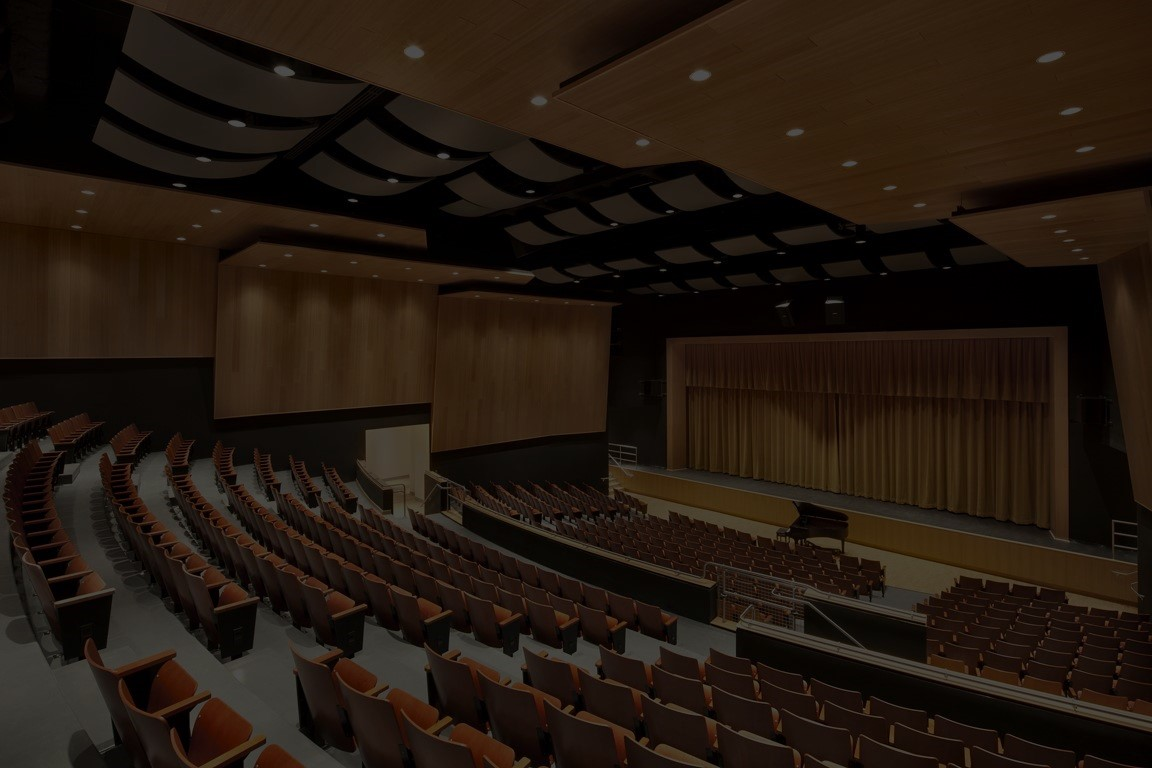
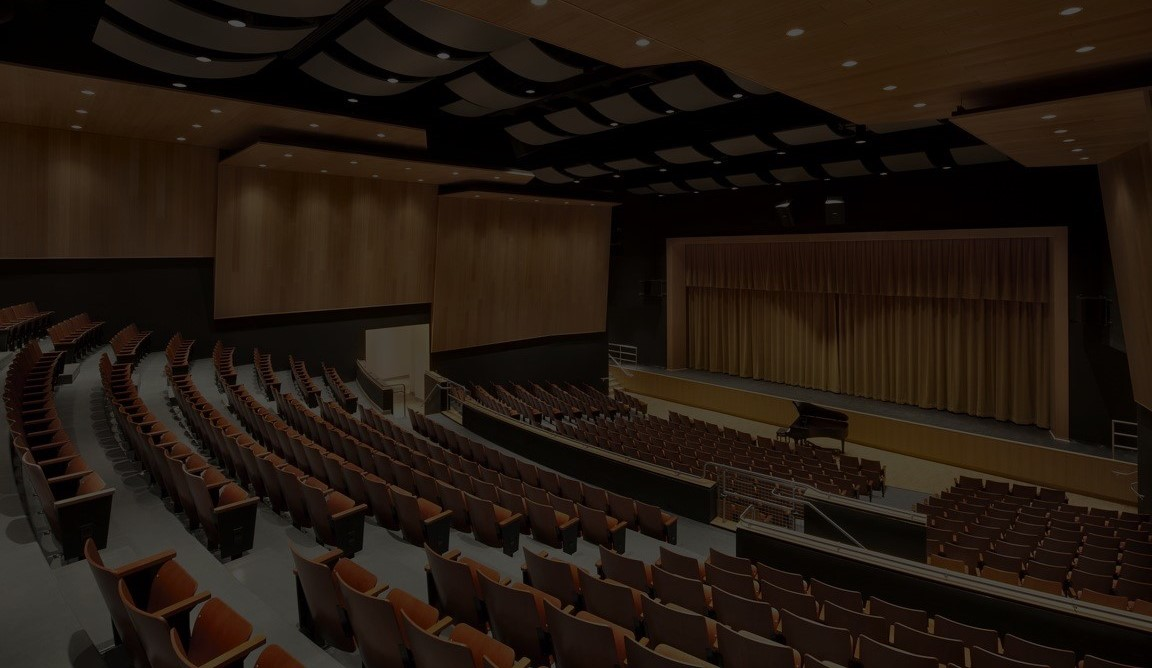
Update

diff --git a/public/css/style.css b/public/css/style.css
@@ -13,24 +13,37 @@
 }
 
 /* Global Styles */
+html, body {
+  height: 100%;
+  overflow: hidden; /* Prevent the body from scrolling */
+}
+
 body {
   background: #ffffff;
+  display: flex;
 }
 
 .container {
   display: flex;
+  width: 100%;
+  height: 100%;
 }
 
 nav {
-  position: relative;
+  position: fixed;
   top: 0;
-  bottom: 0;
-  height: 100vh;
   left: 0;
   background: #07617D;
   width: 280px;
-  overflow: hidden;
+  height: 100vh; /* Set to viewport height */
+  overflow-y: auto; /* Enable vertical scrolling for the navbar content */
   box-shadow: 0 20px 35px rgba(0, 0, 0, 0.1);
+}
+
+nav ul {
+  height: 100%;
+  display: flex;
+  flex-direction: column;
 }
 
 .logo {
@@ -57,12 +70,12 @@ a {
   color: rgb(255, 255, 255);
   font-size: 14px;
   display: table;
-  width: 280px;
+  width: 100%;
   padding: 10px;
 }
 
 nav .fas {
-  position: relative;
+  position: fixed;
   width: 70px;
   height: 40px;
   top: 14px;
@@ -71,55 +84,62 @@ nav .fas {
 }
 
 .nav-item {
-  position: relative;
+  position: fixed;
   top: 12px;
   margin-left: 5px;
 }
 
 .nav-title {
-    position: relative;
-    top: 12px;
-    margin-left: 10px;
-  }
+  position: fixed;
+  top: 12px;
+  margin-left: 10px;
+}
 
 a:hover {
   background: #07556c;
 }
 
 .logout {
-  position: absolute;
-  bottom: 0;
+  margin-top: auto; /* Push the logout button to the bottom */
 }
 
 /* Main Section */
-.main {
-  position: relative;
-  padding: 20px;
-  width: 100%;
-  color: #fff;
-}
 
+.content {
+  padding-top: 80px; /* Adjust to account for the fixed navbar height */
+}
 .image-container {
-  position: relative; /* Set the image container as a positioning context */
-  display: inline-block; /* Display container as inline-block to fit content */
-  width: 100%;
+  margin-left: 280px; /* Offset the main content by the width of the navbar */
+  width: calc(100% - 280px);
+  height: 100vh;
+  overflow-y: auto; /* Enable vertical scrolling for the image content */
 }
 
-.image {
-  max-width: 100%; /* Limit the maximum width of the image */
-  height: auto; /* Maintain the aspect ratio of the image */
+.image-wrapper {
+  position: relative; /* Establish a positioning context for the text */
+  width: 100%;
+  height: 100vh; /* Make the image wrapper take the full height of the viewport */
+  overflow: hidden;
+}
+
+.image-wrapper img {
   display: block; /* Ensure image is displayed as a block element */
+  width: 100%;
+  height: 100%;
+  object-fit: cover; /* Ensure the image covers the container without distortion */
 }
 
 .image-text {
   position: absolute; /* Position the text absolutely within the image container */
-  margin-bottom: 10px;
-  display: block;
   top: 50%; /* Position the text vertically at the center */
   left: 50%; /* Position the text horizontally at the center */
   transform: translate(-50%, -50%); /* Move the text back by half its size to center it */
   color: white; /* Text color */
   font-size: 36px; /* Adjust the font size as needed */
+  text-align: center; /* Center align the text */
+  width: 100%; /* Make sure the text container takes the full width */
+  padding: 0 10px; /* Add some padding for better appearance */
+  box-sizing: border-box; /* Ensure padding is included in the element's total width and height */
 }
 
 .main-skills {
@@ -232,7 +252,6 @@ a:hover {
   float: right;
   margin: -20px 20px 20px 0;
 }
-
 
 .html {
   color: rgb(25, 94, 54);

diff --git a/resources/views/user/dashboard.blade.php b/resources/views/user/dashboard.blade.php
@@ -8,11 +8,6 @@
         <link rel="stylesheet" href="{{ asset('css\style.css') }}" />
         <!-- Font Awesome Cdn Link -->
         <link rel="stylesheet" href="https://cdnjs.cloudflare.com/ajax/libs/font-awesome/5.15.4/css/all.min.css" />
-        <style>
-            .main {
-                background: #07617D;
-            }
-        </style>
     </head>
 
     <body>
@@ -20,7 +15,7 @@
             <nav>
                 <ul>
                     <li><a href="{{url('dashboard_user')}}" class="logo">
-                            <img src="{{ asset('images/IQUBE.png') }}" alt="">
+                            <img src="{{ asset('images/iQUBE_3.png') }}" alt="">
                             <span class="nav-title">i-QUBE</span>
                         </a></li>
                     <li><a href="{{url('item_user')}}">
@@ -46,12 +41,17 @@
                 </ul>
             </nav>
 
-            <section class="main">
-                <div class="main-top">
-                    <h1>Dashboard</h1>
-                    <i class="fas fa-user-cog"></i>
-                </div>
-            </section>
+            <div class="content">
+                <section class="image-container">
+                    <div class="image-wrapper">
+                        <img src="{{ asset('images/auditorium.jpg') }}" alt="">
+                        <div class="image-text">
+                            <h2>Sistem Informasi Peminjaman</h2>
+                            <h2>Sarana dan Prasarana</h2>
+                        </div>
+                    </div>
+                </section>
+            </div>
         </div>
     </body>
     </html>

diff --git a/app/Http/Controllers/LoginController.php b/app/Http/Controllers/LoginController.php
@@ -23,10 +23,9 @@ class LoginController extends Controller
         $credentials = $request->only('nim', 'password');
 
         if (Auth::attempt($credentials)) {
-            return redirect('/dashboard');
+            return redirect('/dashboard_user');
         } else {
             return redirect('login')->with('failed', 'No Induk atau Password Salah');
         }
-        
     }
 }

diff --git a/routes/web.php b/routes/web.php
@@ -26,7 +26,7 @@ use Spatie\FlareClient\View;
 |
 */
 Route::get('/dashboard_user', function(){
-    return view('dashboard');
+    return view('user.dashboard');
 });
 Route::group(['prefix' => 'item_user'], function () {
     Route::get('/', [UserItemController::class, 'index']);
